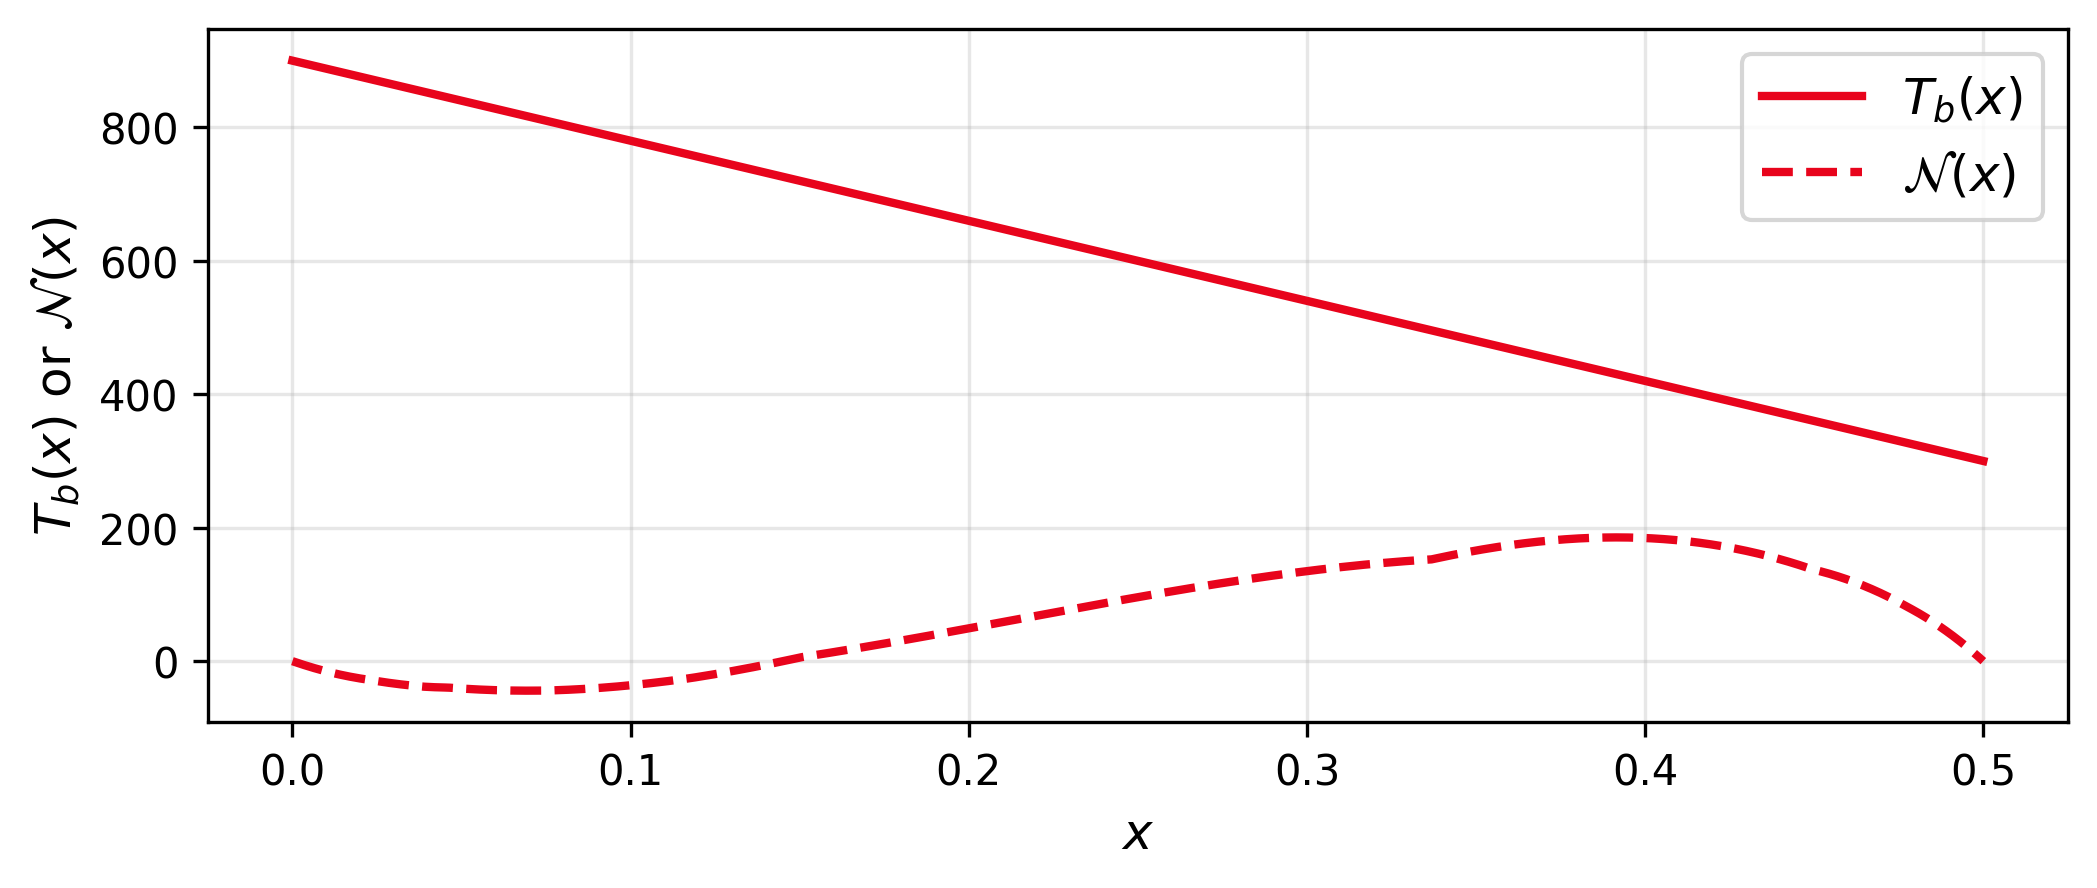
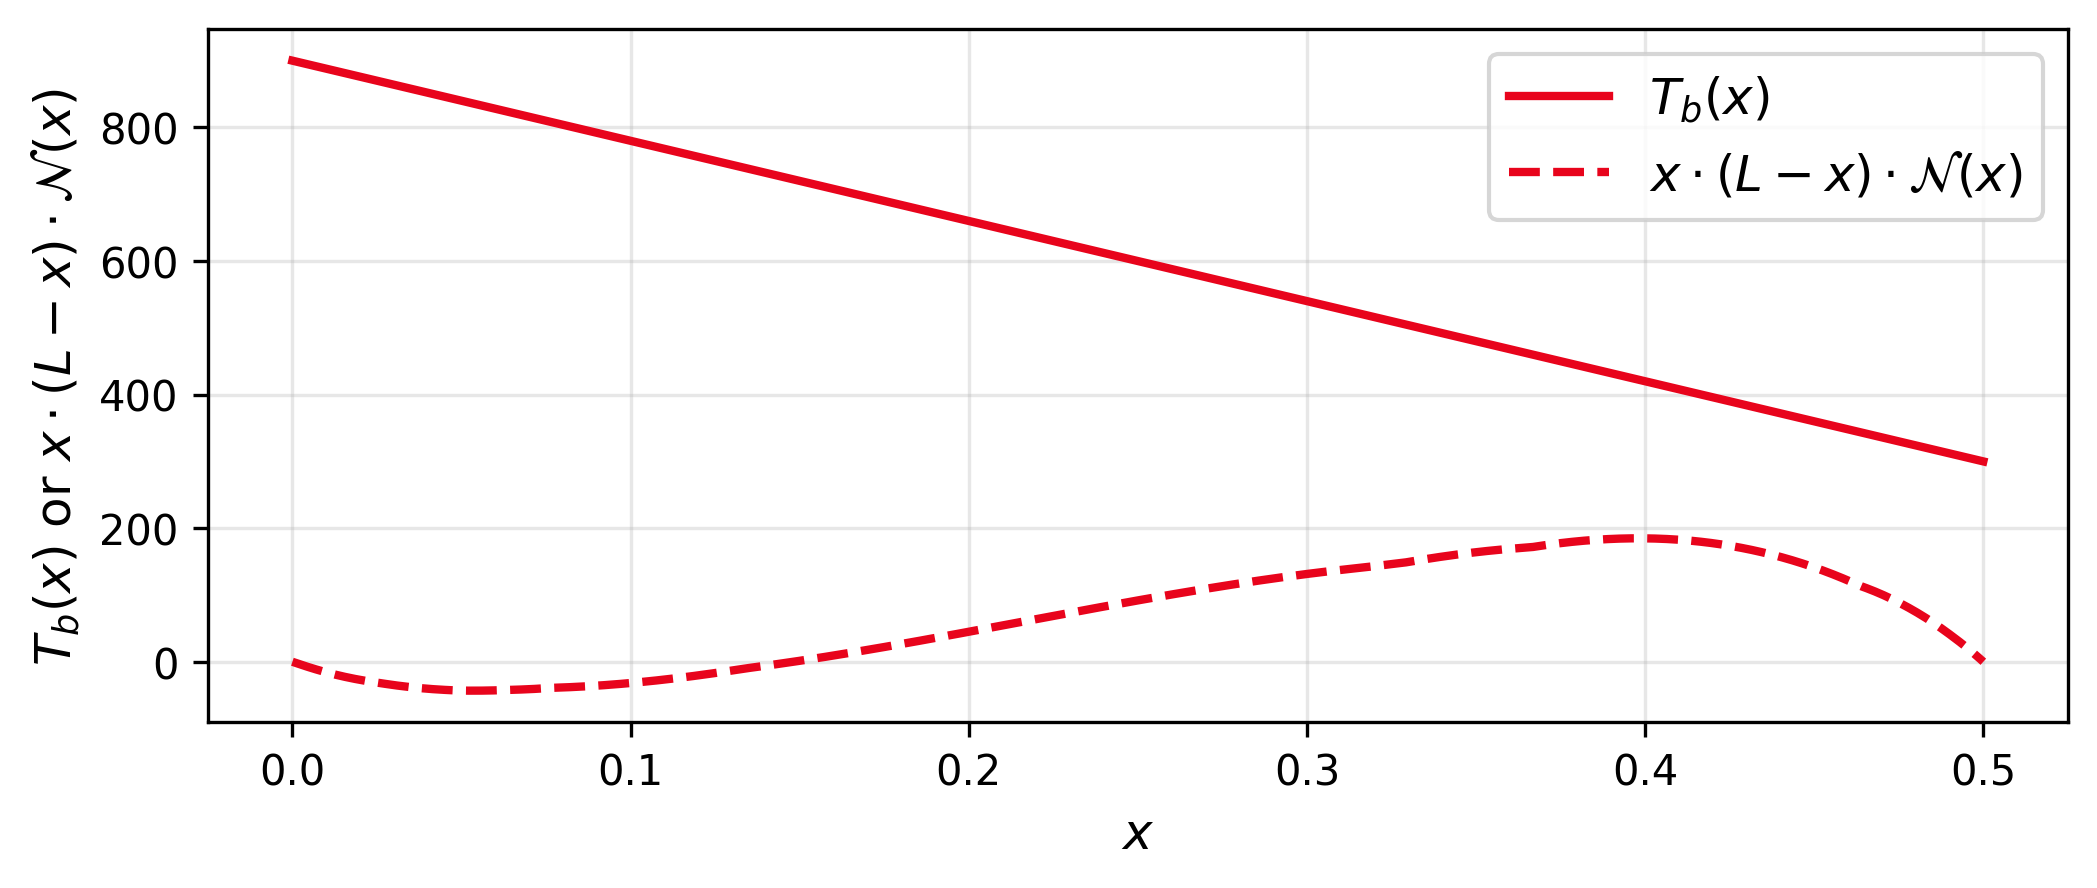
Update

diff --git a/_posts/2025-09-22-undergrad-homework-PINN.md b/_posts/2025-09-22-undergrad-homework-PINN.md
@@ -120,8 +120,9 @@ This is our baseline:
 
 As you can see, it's just a linear function but one that obeys our boundary conditions!
 
-Next, the trained ANN will only approximate **a correction** to this baseline linear function, <span class="math display">$$ \mathcal{N}(x) $$</span>,
-and we will "spread" this correction over the domain using a multiplier <span class="math display">$$ x (L - x) $$</span>, so that 
+Next, the trained ANN will only approximate **a correction**, <span class="math display">$$ \mathcal{N}(x) $$</span>, 
+to this baseline linear function
+and we will weight this correction with a multiplier <span class="math display">$$ x (L - x) $$</span>, so that 
 at <span class="math display">$$ x = 0 $$</span> and <span class="math display">$$ x = L $$</span> we enforce no correction added
 (we want to preserve the boundary conditions there exactly).
 
